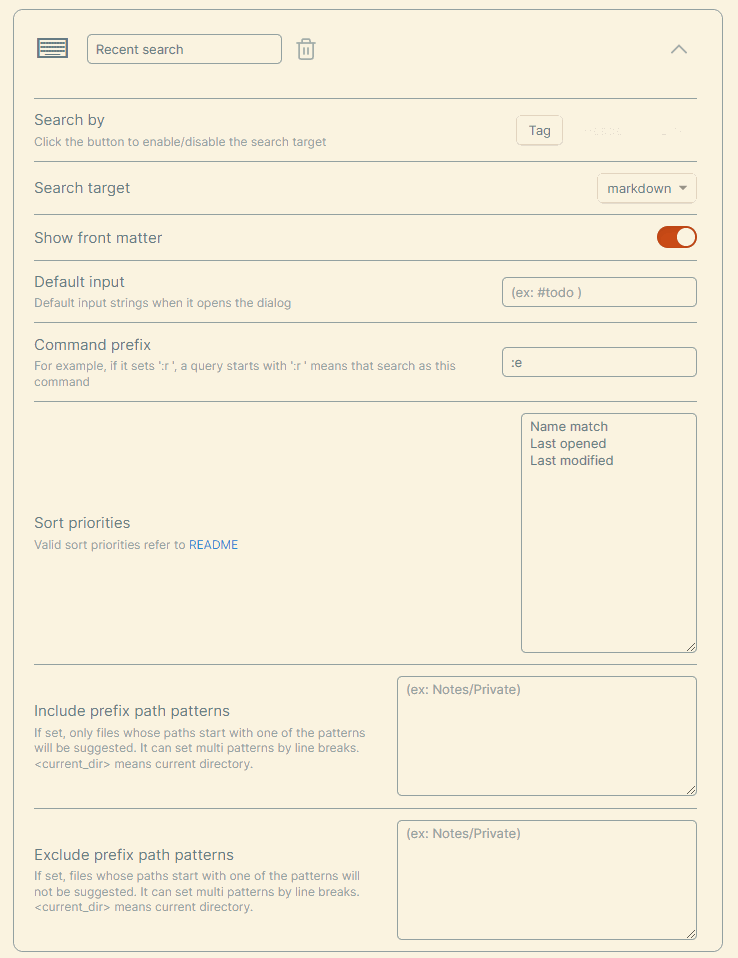
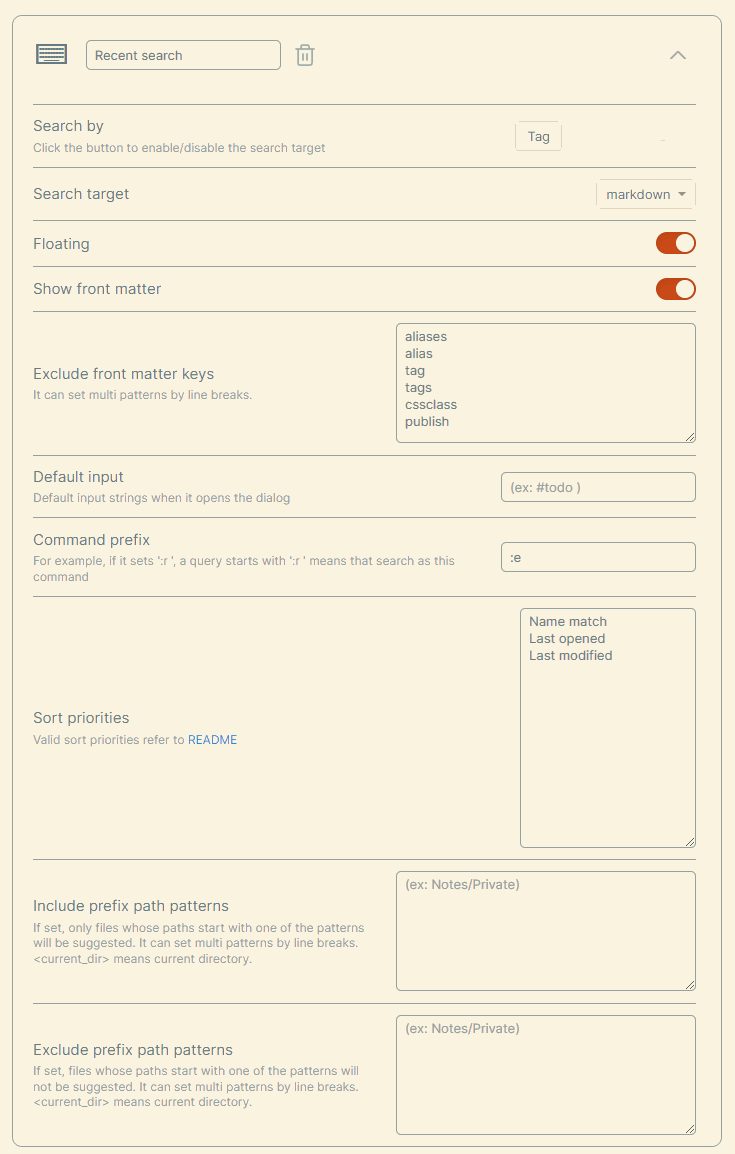
Add a "preview" feature in the Custom searches (#110)

diff --git a/src/ui/AnotherQuickSwitcherModal.ts b/src/ui/AnotherQuickSwitcherModal.ts
@@ -6,6 +6,7 @@ import {
   parseFrontMatterAliases,
   parseFrontMatterTags,
   SuggestModal,
+  TFile,
 } from "obsidian";
 import {
   excludeItems,
@@ -39,6 +40,7 @@ export class AnotherQuickSwitcherModal
   appHelper: AppHelper;
   settings: Settings;
   searchQuery: string;
+  originFile: TFile | null;
 
   chooser: UnsafeModalInterface<SuggestionItem>["chooser"];
   scope: UnsafeModalInterface<SuggestionItem>["scope"];
@@ -62,6 +64,7 @@ export class AnotherQuickSwitcherModal
     this.settings = settings;
     this.initialCommand = command;
     this.command = command;
+    this.originFile = this.appHelper.getActiveFile();
 
     this.limit = this.settings.maxNumberOfSuggestions;
     this.setHotkeys();
@@ -91,18 +94,54 @@ export class AnotherQuickSwitcherModal
     );
   }
 
+  onOpen() {
+    super.onOpen();
+
+    if (this.command.floating) {
+      activeWindow.activeDocument
+        .querySelector(".modal-bg")
+        ?.addClass("another-quick-switcher__floating-modal-bg");
+
+      const promptEl = activeWindow.activeDocument.querySelector(".prompt");
+      promptEl?.addClass("another-quick-switcher__floating-prompt");
+
+      const markdownView = this.appHelper.getMarkdownViewInActiveLeaf();
+
+      if (markdownView) {
+        const windowWidth = activeWindow.innerWidth;
+        const windowHeight = activeWindow.innerHeight;
+        const modalWidth = this.modalEl.offsetWidth;
+        const modalHeight = this.modalEl.offsetHeight;
+        const {
+          x: leafX,
+          y: leafY,
+          width: leafWidth,
+        } = markdownView.containerEl.getBoundingClientRect();
+        const { y: promptY } = promptEl!.getBoundingClientRect();
+
+        const left = Math.min(
+          windowWidth - modalWidth - 30,
+          leafX + leafWidth / 1.5
+        );
+        const top = Math.min(windowHeight - modalHeight - 10, leafY + promptY);
+
+        promptEl?.setAttribute("style", `left: ${left}px; top: ${top}px`);
+      }
+    }
+  }
+
   indexingItems() {
     const starredPathMap = keyBy(
       this.appHelper.getStarredFilePaths(),
       (x) => x
     );
-    const activeFilePath = app.workspace.getActiveFile()?.path;
+    const originFilePath = this.originFile?.path;
 
     const start = performance.now();
     const markdownItems = app.vault
       .getMarkdownFiles()
       .filter(
-        (x) => x.path !== activeFilePath && app.metadataCache.getFileCache(x)
+        (x) => x.path !== originFilePath && app.metadataCache.getFileCache(x)
       )
       .map((x) => {
         const cache = app.metadataCache.getFileCache(x)!; // already filtered
@@ -171,18 +210,16 @@ export class AnotherQuickSwitcherModal
         case "backlink":
           const backlinksMap = this.appHelper.createBacklinksMap();
           items = items.filter((x) =>
-            backlinksMap[this.appHelper.getActiveFile()?.path ?? ""]?.has(
-              x.file.path
-            )
+            backlinksMap[this.originFile?.path ?? ""]?.has(x.file.path)
           );
           break;
         case "link":
-          const activeFileLinkMap = this.appHelper.createActiveFileLinkMap();
+          const originFileLinkMap = this.appHelper.createActiveFileLinkMap();
           items = items
-            .filter((x) => activeFileLinkMap[x.file.path])
+            .filter((x) => originFileLinkMap[x.file.path])
             .sort(
               sorter(
-                (x) => activeFileLinkMap[x.file.path].position.start.offset
+                (x) => originFileLinkMap[x.file.path].position.start.offset
               )
             );
           break;
@@ -407,16 +444,13 @@ export class AnotherQuickSwitcherModal
 
     const offset =
       this.command.searchTarget === "backlink"
-        ? this.appHelper.findFirstLinkOffset(
-            item.file,
-            this.app.workspace.getActiveFile()! // never undefined
-          )
+        ? this.appHelper.findFirstLinkOffset(item.file, this.originFile!) // backlinkの候補がある場合はかならずoriginFileが存在する
         : undefined;
 
     if (!option.keepOpen) {
       this.close();
     }
-    this.appHelper.openMarkdownFile(fileToOpened, { leaf: leaf, offset });
+    this.appHelper.openMarkdownFile(fileToOpened, { leaf, offset });
   }
 
   async onChooseSuggestion(
@@ -484,23 +518,25 @@ export class AnotherQuickSwitcherModal
       }
     });
 
-    this.registerKeys("open in new tab", () => {
-      this.chooseCurrentSuggestion("new-tab");
+    this.registerKeys("open in new tab", async () => {
+      await this.chooseCurrentSuggestion("new-tab");
     });
-    this.registerKeys("open in new pane (horizontal)", () => {
-      this.chooseCurrentSuggestion("new-pane-horizontal");
+    this.registerKeys("open in new pane (horizontal)", async () => {
+      await this.chooseCurrentSuggestion("new-pane-horizontal");
     });
-    this.registerKeys("open in new pane (vertical)", () => {
-      this.chooseCurrentSuggestion("new-pane-vertical");
+    this.registerKeys("open in new pane (vertical)", async () => {
+      await this.chooseCurrentSuggestion("new-pane-vertical");
     });
-    this.registerKeys("open in new window", () => {
-      this.chooseCurrentSuggestion("new-window");
+    this.registerKeys("open in new window", async () => {
+      await this.chooseCurrentSuggestion("new-window");
     });
-    this.registerKeys("open in popup", () => {
-      this.chooseCurrentSuggestion("popup");
+    this.registerKeys("open in popup", async () => {
+      await this.chooseCurrentSuggestion("popup");
     });
-    this.registerKeys("open in new tab in background", () => {
-      this.chooseCurrentSuggestion("new-tab-background", { keepOpen: true });
+    this.registerKeys("open in new tab in background", async () => {
+      await this.chooseCurrentSuggestion("new-tab-background", {
+        keepOpen: true,
+      });
     });
     this.registerKeys("open all in new tabs", () => {
       this.close();
@@ -518,17 +554,21 @@ export class AnotherQuickSwitcherModal
         );
     });
 
-    this.registerKeys("create", () => {
-      this.handleCreateNew(this.searchQuery, "same-tab");
+    this.registerKeys("preview", async () => {
+      await this.chooseCurrentSuggestion("same-tab", { keepOpen: true });
     });
-    this.registerKeys("create in new tab", () => {
-      this.handleCreateNew(this.searchQuery, "new-tab");
+
+    this.registerKeys("create", async () => {
+      await this.handleCreateNew(this.searchQuery, "same-tab");
     });
-    this.registerKeys("create in new window", () => {
-      this.handleCreateNew(this.searchQuery, "new-window");
+    this.registerKeys("create in new tab", async () => {
+      await this.handleCreateNew(this.searchQuery, "new-tab");
     });
-    this.registerKeys("create in new popup", () => {
-      this.handleCreateNew(this.searchQuery, "popup");
+    this.registerKeys("create in new window", async () => {
+      await this.handleCreateNew(this.searchQuery, "new-window");
+    });
+    this.registerKeys("create in new popup", async () => {
+      await this.handleCreateNew(this.searchQuery, "popup");
     });
 
     this.registerKeys("open in google", () => {

diff --git a/src/settings.ts b/src/settings.ts
@@ -16,6 +16,7 @@ export interface SearchCommand {
     link: boolean;
   };
   searchTarget: SearchTarget;
+  floating: boolean;
   showFrontMatter: boolean;
   excludeFrontMatterKeys: string[];
   defaultInput: string;
@@ -39,6 +40,7 @@ export interface Hotkeys {
     "open in popup": Hotkey[];
     "open in new tab in background": Hotkey[];
     "open all in new tabs": Hotkey[];
+    preview: Hotkey[];
     create: Hotkey[];
     "create in new tab": Hotkey[];
     "create in new window": Hotkey[];
@@ -113,6 +115,7 @@ const createDefaultHotkeys = (): Hotkeys => ({
     "open in popup": [],
     "open in new tab in background": [{ modifiers: ["Alt"], key: "o" }],
     "open all in new tabs": [{ modifiers: ["Mod", "Shift", "Alt"], key: "o" }],
+    preview: [{ modifiers: ["Mod"], key: "," }],
     create: [{ modifiers: ["Shift"], key: "Enter" }],
     "create in new tab": [{ modifiers: ["Mod", "Shift"], key: "Enter" }],
     "create in new window": [{ modifiers: ["Mod", "Shift"], key: "o" }],
@@ -166,6 +169,7 @@ export const createDefaultSearchCommand = (): SearchCommand => ({
     header: false,
   },
   searchTarget: "markdown",
+  floating: false,
   showFrontMatter: false,
   excludeFrontMatterKeys: createDefaultExcludeFrontMatterKeys(),
   defaultInput: "",
@@ -185,6 +189,7 @@ export const createPreSettingSearchCommands = (): SearchCommand[] => [
       link: false,
     },
     searchTarget: "markdown",
+    floating: false,
     showFrontMatter: false,
     excludeFrontMatterKeys: createDefaultExcludeFrontMatterKeys(),
     defaultInput: "",
@@ -202,6 +207,7 @@ export const createPreSettingSearchCommands = (): SearchCommand[] => [
       header: false,
     },
     searchTarget: "markdown",
+    floating: false,
     showFrontMatter: false,
     excludeFrontMatterKeys: createDefaultExcludeFrontMatterKeys(),
     defaultInput: "",
@@ -224,6 +230,7 @@ export const createPreSettingSearchCommands = (): SearchCommand[] => [
       header: true,
     },
     searchTarget: "markdown",
+    floating: false,
     showFrontMatter: false,
     excludeFrontMatterKeys: createDefaultExcludeFrontMatterKeys(),
     defaultInput: "",
@@ -249,6 +256,7 @@ export const createPreSettingSearchCommands = (): SearchCommand[] => [
       header: false,
     },
     searchTarget: "markdown",
+    floating: false,
     showFrontMatter: false,
     excludeFrontMatterKeys: createDefaultExcludeFrontMatterKeys(),
     defaultInput: "",
@@ -266,6 +274,7 @@ export const createPreSettingSearchCommands = (): SearchCommand[] => [
       header: false,
     },
     searchTarget: "backlink",
+    floating: false,
     showFrontMatter: false,
     excludeFrontMatterKeys: createDefaultExcludeFrontMatterKeys(),
     defaultInput: "",
@@ -781,6 +790,13 @@ ${invalidValues.map((x) => `- ${x}`).join("\n")}
         .onChange(async (value) => {
           command.searchTarget = value as SearchTarget;
         });
+    });
+
+    new Setting(div).setName("Floating").addToggle((cb) => {
+      cb.setValue(command.floating).onChange(async (value) => {
+        command.floating = value as boolean;
+        this.display();
+      });
     });
 
     new Setting(div).setName("Show front matter").addToggle((cb) => {

diff --git a/styles.css b/styles.css
@@ -1,3 +1,12 @@
+.another-quick-switcher__floating-prompt {
+    width: 33vw;
+    right: 30px;
+}
+
+.another-quick-switcher__floating-prompt .suggestion-item {
+    font-size: 90%;
+}
+
 .another-quick-switcher__item {
     display: flex;
     flex-direction: column;

diff --git a/README.md b/README.md
@@ -7,6 +7,7 @@
 This is an Obsidian plugin which is another choice of Quick switcher.
 
 - It can create custom search commands (`Custom searches`)
+- It allows you to customize the hotkeys in the quick switcher to your preference
 - It can search backlinks and move them **without leaving from a keyboard** (`Backlink search`)
 - It can move a file to another folder (`Move file to another folder`)
 - It can search **regardless of the appearance order of tokens**
@@ -62,7 +63,7 @@ You can use the following names as a `Sort priorities`.
 
 > **Warning**
 > Please don't forget to click the `Save` button before you close Obsidian. Otherwise, the settings **will never restore** when you open Obsidian next time.
-> ![](demo/save-button.png)
+> ![Demo](https://raw.githubusercontent.com/tadashi-aikawa/obsidian-another-quick-switcher/master/demo/save-button.png)
 
 > **Note**
 > Examples of `(Tags spit by comma)` are `#hoge`, `#hoge,#huga`, and so on.
@@ -124,6 +125,12 @@ This feature requires [ripgrep](https://github.com/BurntSushi/ripgrep) and set t
 #### Note
 
 - Input regards as a regex pattern
+
+### 4. Customizable hotkeys
+
+Detailed hotkeys customization is available for each dialog.
+
+> ![Demo](https://raw.githubusercontent.com/tadashi-aikawa/obsidian-another-quick-switcher/master/demo/customizable-hotkeys-setting.png)
 
 ## For users who use earlier than v6.0.0
 
